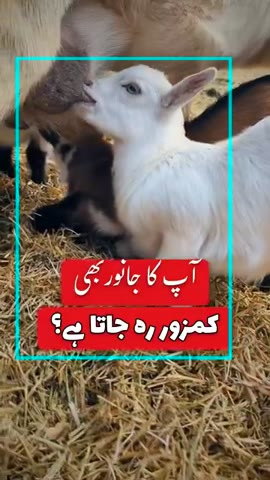
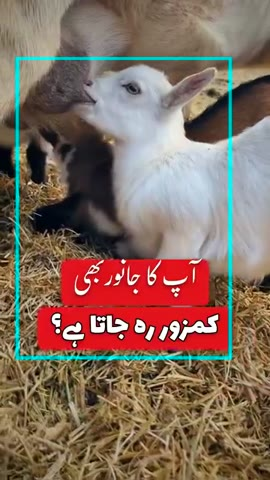
power-vimix v2: kinetic Urdu words on every spoken beat, faster cuts
Claude-Session: https://claude.ai/code/session_0139To4Bi5mkGo2BmfVPNRP3

diff --git a/Video Edits/Export/power-vimix/storyboard.md b/Video Edits/Export/power-vimix/storyboard.md
@@ -1,6 +1,6 @@
 # Storyboard: power-vimix
 
-**Output:** 2160x3840, 30 fps, **0:15.0** long, 5 shots, framing: crop
+**Output:** 2160x3840, 30 fps, **0:15.0** long, 6 shots, framing: crop
 
 Power V-Mix 15 s TikTok/FB ad: Urdu red-plate hook on frame 1 (goat kid), product reveal, ingredients as icon tiles over cattle eating, all-animals line, Khyber Traders end. Urdu voice-over (TTS, ur-PK male).
 
@@ -28,25 +28,33 @@ Owner's TikTok formula (styles/urdu-hook): animals in frame, white Urdu on red p
 - **What happens:** Cow and calf in golden light (product reveal)
 - **Then:** hard cut
 
-### 3. 0:05.6 – 0:09.8 (4.2s)
+### 3. 0:05.6 – 0:07.5 (1.9s)
 
 <img src="storyboard/shot_03.jpg" height="320">
 
-- **Clip:** `clip2.mp4` 0:00.5–0:04.7 (muted)
+- **Clip:** `clip2.mp4` 0:00.5–0:02.4 (muted)
 - **What happens:** Herd eating at the feed trough (ingredients)
 - **Then:** hard cut
 
-### 4. 0:09.8 – 0:12.4 (2.6s)
+### 4. 0:07.5 – 0:09.8 (2.3s)
 
 <img src="storyboard/shot_04.jpg" height="320">
+
+- **Clip:** `clip2.mp4` 0:05.0–0:07.3 (muted)
+- **What happens:** Herd eating, second angle
+- **Then:** hard cut
+
+### 5. 0:09.8 – 0:12.4 (2.6s)
+
+<img src="storyboard/shot_05.jpg" height="320">
 
 - **Clip:** `clip1.mp4` 0:03.0–0:05.6 (muted)
 - **What happens:** Cow and calf (all animals)
 - **Then:** hard cut
 
-### 5. 0:12.4 – 0:15.0 (2.6s)
+### 6. 0:12.4 – 0:15.0 (2.6s)
 
-<img src="storyboard/shot_05.jpg" height="320">
+<img src="storyboard/shot_06.jpg" height="320">
 
 - **Clip:** `clip3.mp4` 0:06.0–0:08.6 (muted)
 - **What happens:** Goat kid (end card behind)
